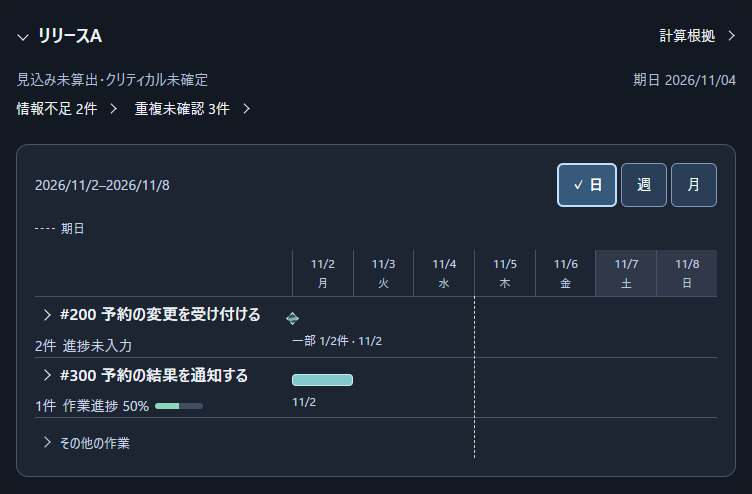
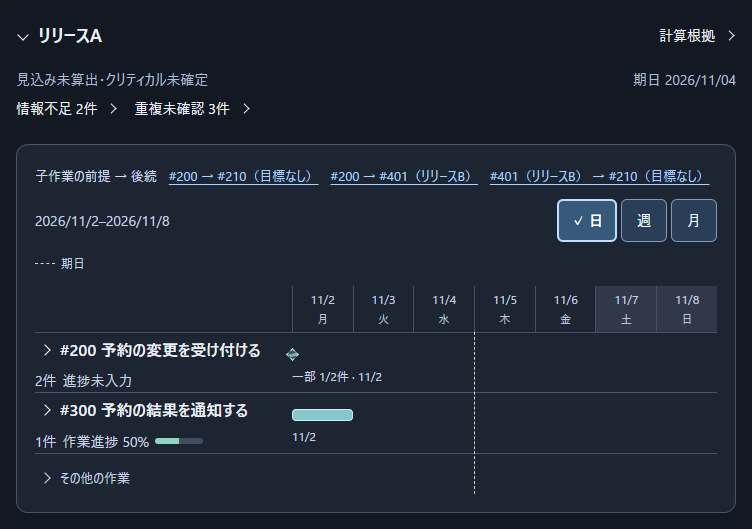
feat(gantt): 閉じた目標から子作業の前提と後続をたどれるようにする
- 同じ向きの子作業の関係を表示中の親にまとめ、図と根拠の一覧を対応させる。
- 親内の前提、別リリース、取得不足、日程未算出を区別し、元の登録を詳細に残す。
- 従来のサンプルと親間の依存を持つ別サンプルで開閉・縮尺・操作を検証する。

diff --git a/dist/gantt.css b/dist/gantt.css
@@ -46,3 +46,11 @@
 @container (min-width:540px) {
   .gantt .chart { --name-width:clamp(235px, 34cqw, 420px); }
 }
+
+.gantt .gantt-relations { display:flex; align-items:center; flex-wrap:wrap; gap:2px 12px; margin-bottom:10px; font-size:13px; color:#cfdeed; }
+.gantt .gantt-relations .plain-action { font-size:13px; padding:2px 0; color:#a6d3ff; }
+.gantt .connections path[data-pair] { pointer-events:stroke; cursor:pointer; }
+.gantt .connections [data-pair]:hover { stroke:#8dccff; stroke-width:4; }
+
+.gantt .gantt-relations .plain-action::after, .gantt .relation-evidence .plain-action::after { display:none; }
+.gantt .gantt-relations .plain-action, .gantt .relation-evidence .plain-action { text-decoration:underline; text-underline-offset:3px; }

diff --git a/docs/milestone-gantt-ui.md b/docs/milestone-gantt-ui.md
@@ -133,7 +133,14 @@ Issueの完了や利用者受入はこの割合から推定しない。
 目標を開くと親の日程を残し、同じ軸に中間の親と子作業を表示する。
 子Issueを追加するときは、目標内のリンクでGitHubの親Issueを開く。
 親を特定できない作業とリリース外の前提は、目標一覧の末尾にある「その他の作業」から開く。
-依存線は両端の作業が見える場合に描き、詳細では折りたたんだ作業の前提・後続もたどれる。
+子作業の前提から後続へ矢印を描く。
+子が閉じているときは表示中の最も近い親行に線を移し、同じ向きの組は1本にまとめる。
+線の位置には根拠になった子作業の終了・開始を使う。
+同じ親内の関係は「親内の前提」にまとめる。
+矢印または上部の組を選ぶと、前提と後続の作業名、所属リリース、前提の完了状態が分かる。
+集約Issueに登録された関係は、展開した末端の組と併せて元の登録も表示する。
+日程未算出や時間軸の外にある作業も組の一覧から確認できる。
+前提一覧の取得不足は「前提未確認」から対象を確認する。
 日・週・月の切替、リリースの再展開、同じ画面での再取得では、リリースごとの開閉状態を保持する。
 未完了Estimateの合計と、進捗率から計算する残量は混同しない。
 要対応への入口と期限切れ件数は[リリースタブの仕様](specification.md#リリースタブ)に従う。
